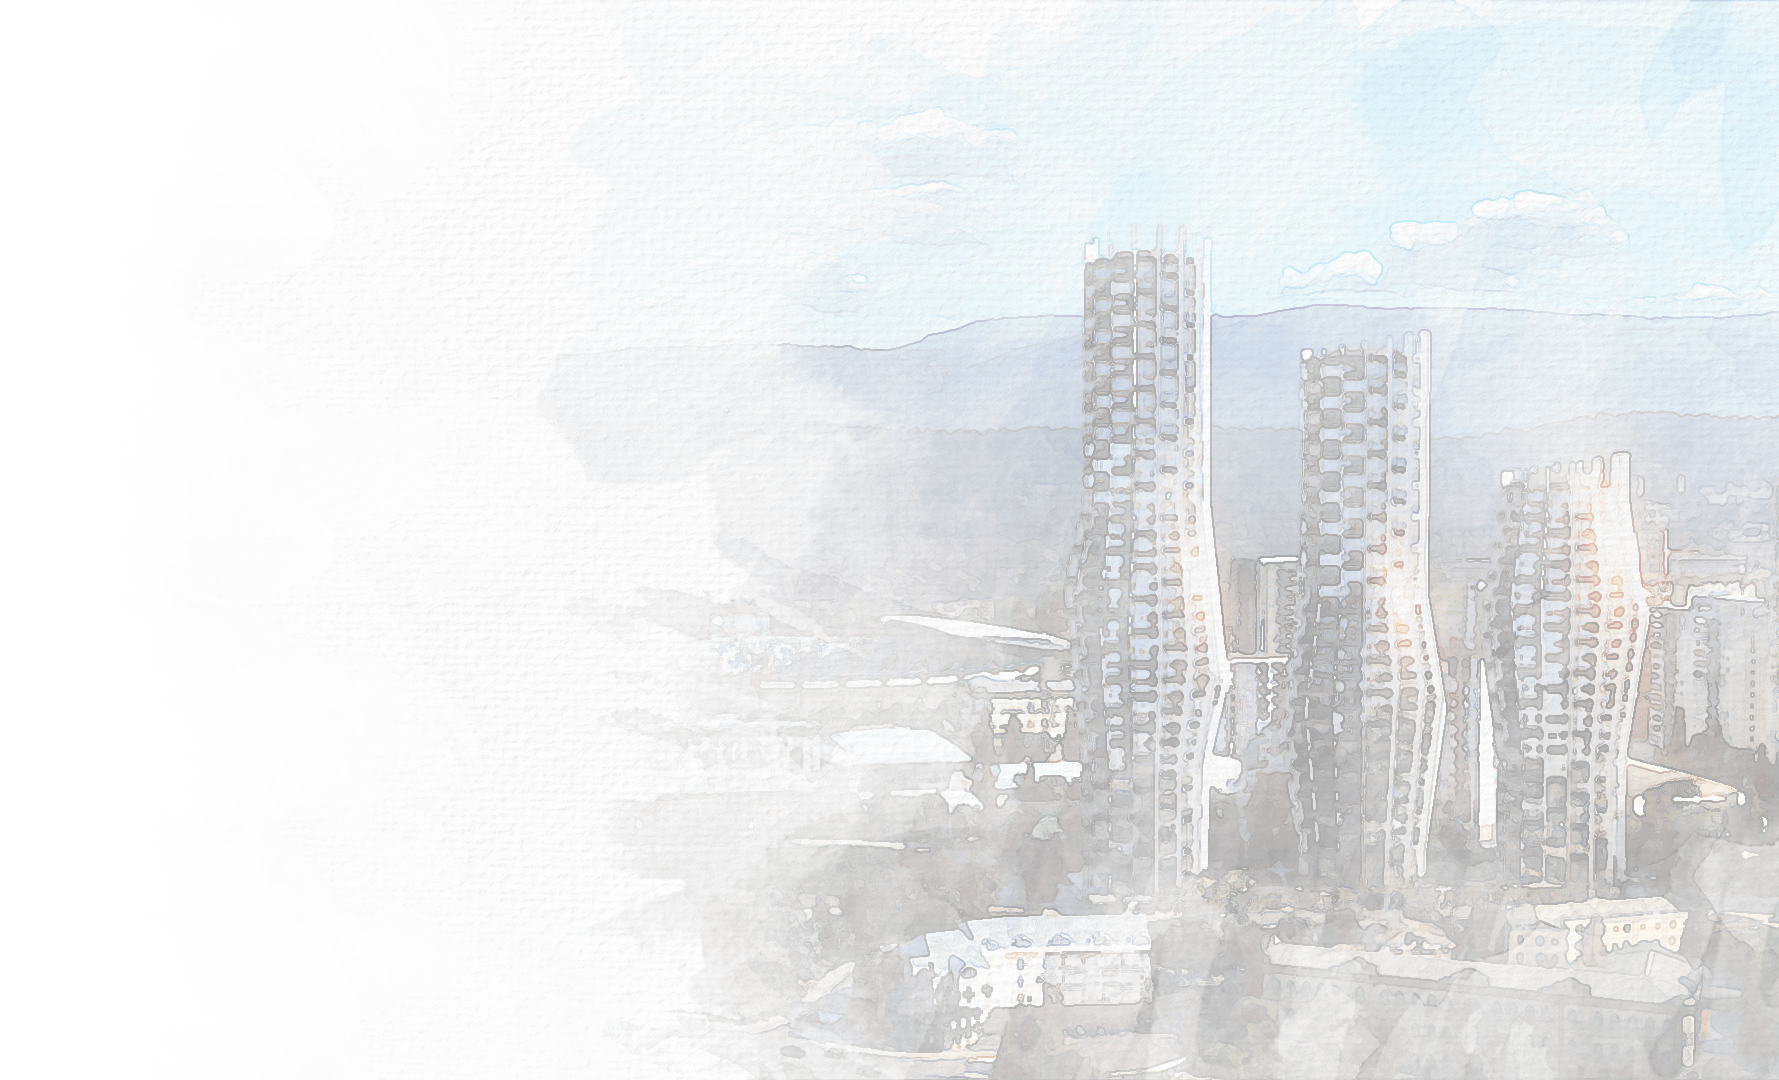
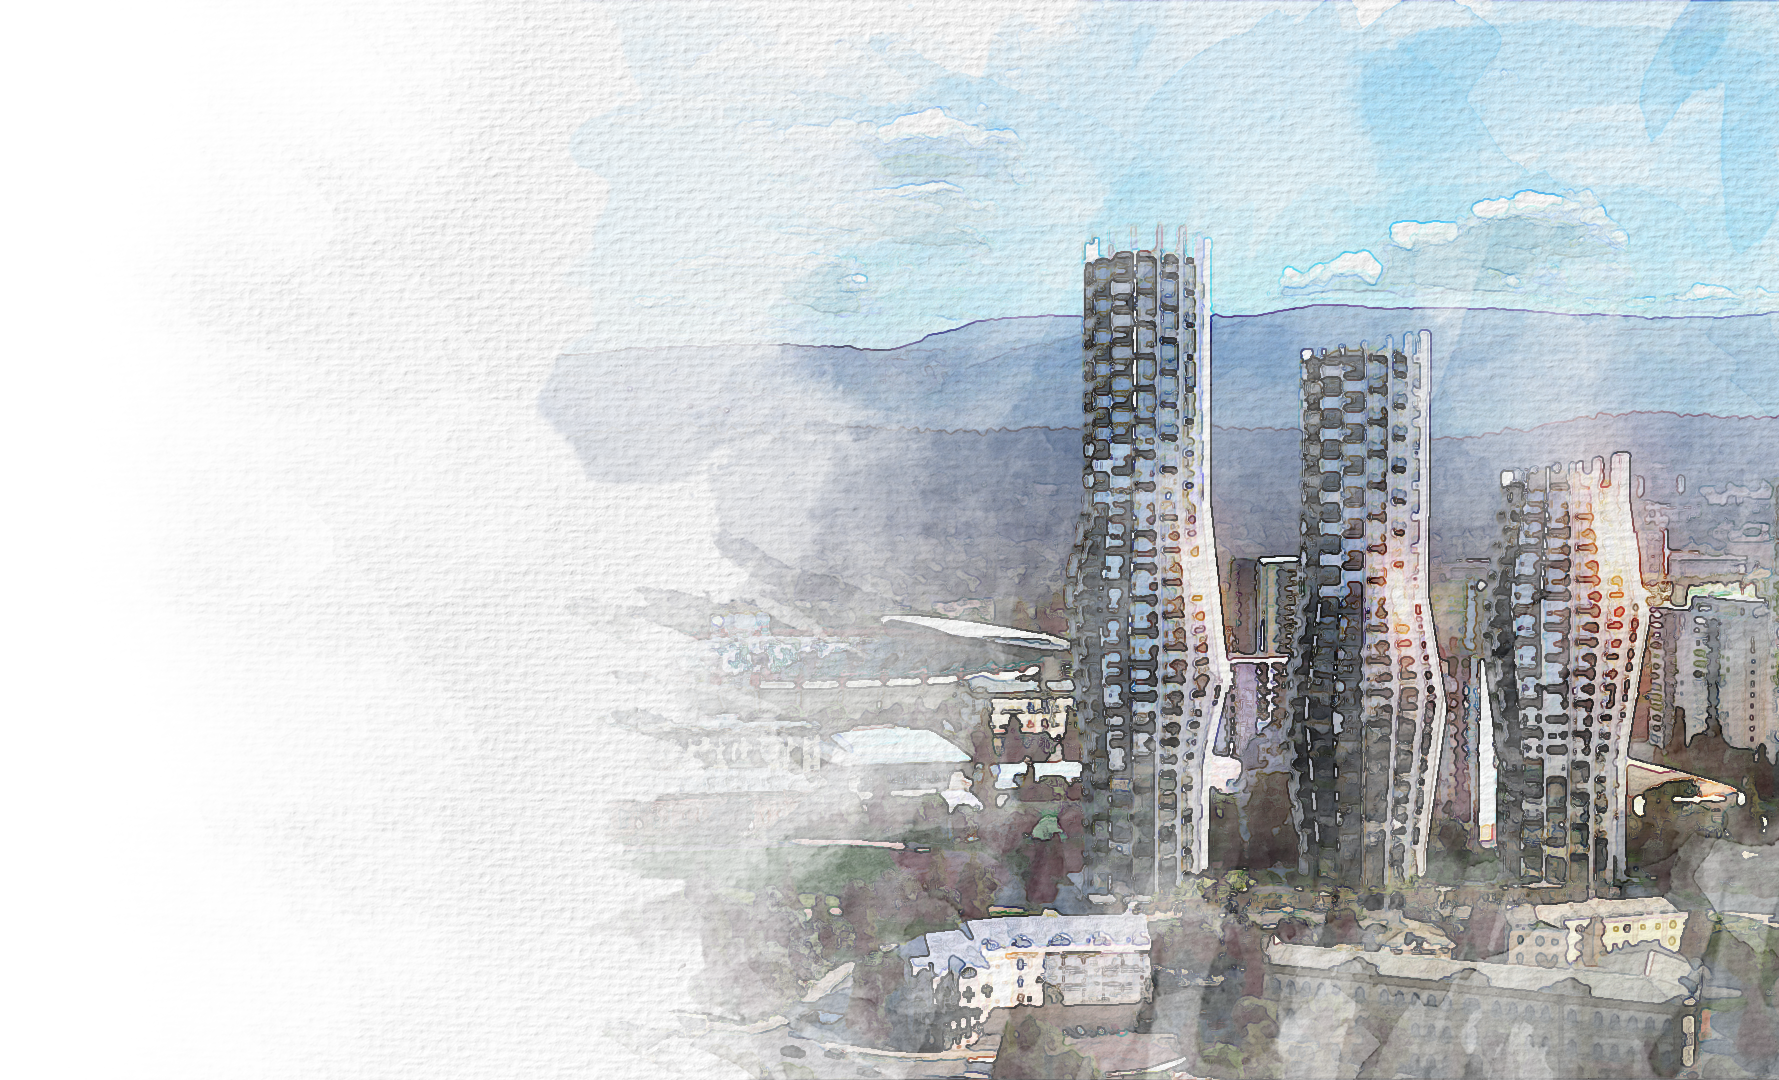
Add files via upload

diff --git a/index.html b/index.html
@@ -116,8 +116,16 @@
 		<div class="stick" style="left: 75%;"></div>
 		<div class="stick" style="left: 87.5%;"></div>
 
-		<div class="back-image" style="background-image: url(img/04.png); background-repeat: no-repeat;background-size: cover;background-position: center; background-attachment: fixed;"></div>
-		<div class="fade" style="background-image: url(img/03.png); background-repeat: no-repeat;background-size: cover;background-position: center; background-attachment: fixed;"></div>
+<!-- 		<div class="back-image" style="background-image: url(img/04.png); background-repeat: no-repeat;background-size: cover;background-position: center; background-attachment: fixed;"></div>
+		<div class="fade" style="background-image: url(img/03.png); background-repeat: no-repeat;background-size: cover;background-position: center; background-attachment: fixed;"></div> -->
+
+		<div class="back-image" data-id="1" style="background: url(img/04.png) no-repeat; background-size: cover; background-position: center; background-attachment: fixed;">
+		<div class="fade" style="background: white;">
+			<div style="width: 100%; height: 100%; position: absolute; background: url(img/03.png) no-repeat; background-position: center;
+			 background-size:cover; background-attachment: fixed;">
+			</div>
+			</div>
+		</div>
 
 		<div class="bottom-text kfn_anim" data-kfn="bu">
 			<h2>What are the advantages?</h2>
@@ -142,7 +150,7 @@
 		<div class="stick" style="left: 75%;"></div>
 		<div class="stick" style="left: 87.5%;"></div>
 
-		<div class="back-image fade" style="background-image: url(img/service.png); background-repeat: no-repeat;background-size: cover;background-position: center; background-attachment: fixed; opacity: 0"></div>
+		<div class="back-image fade" style="background-image: url(img/serv.jpg); background-repeat: no-repeat;background-size: cover;background-position: center; background-attachment: fixed; opacity: 0"></div>
 
 		<div class="service-images">
 			<div class="first-image hover_img kfn_anim"  data-role="img" data-kfn="FL">
